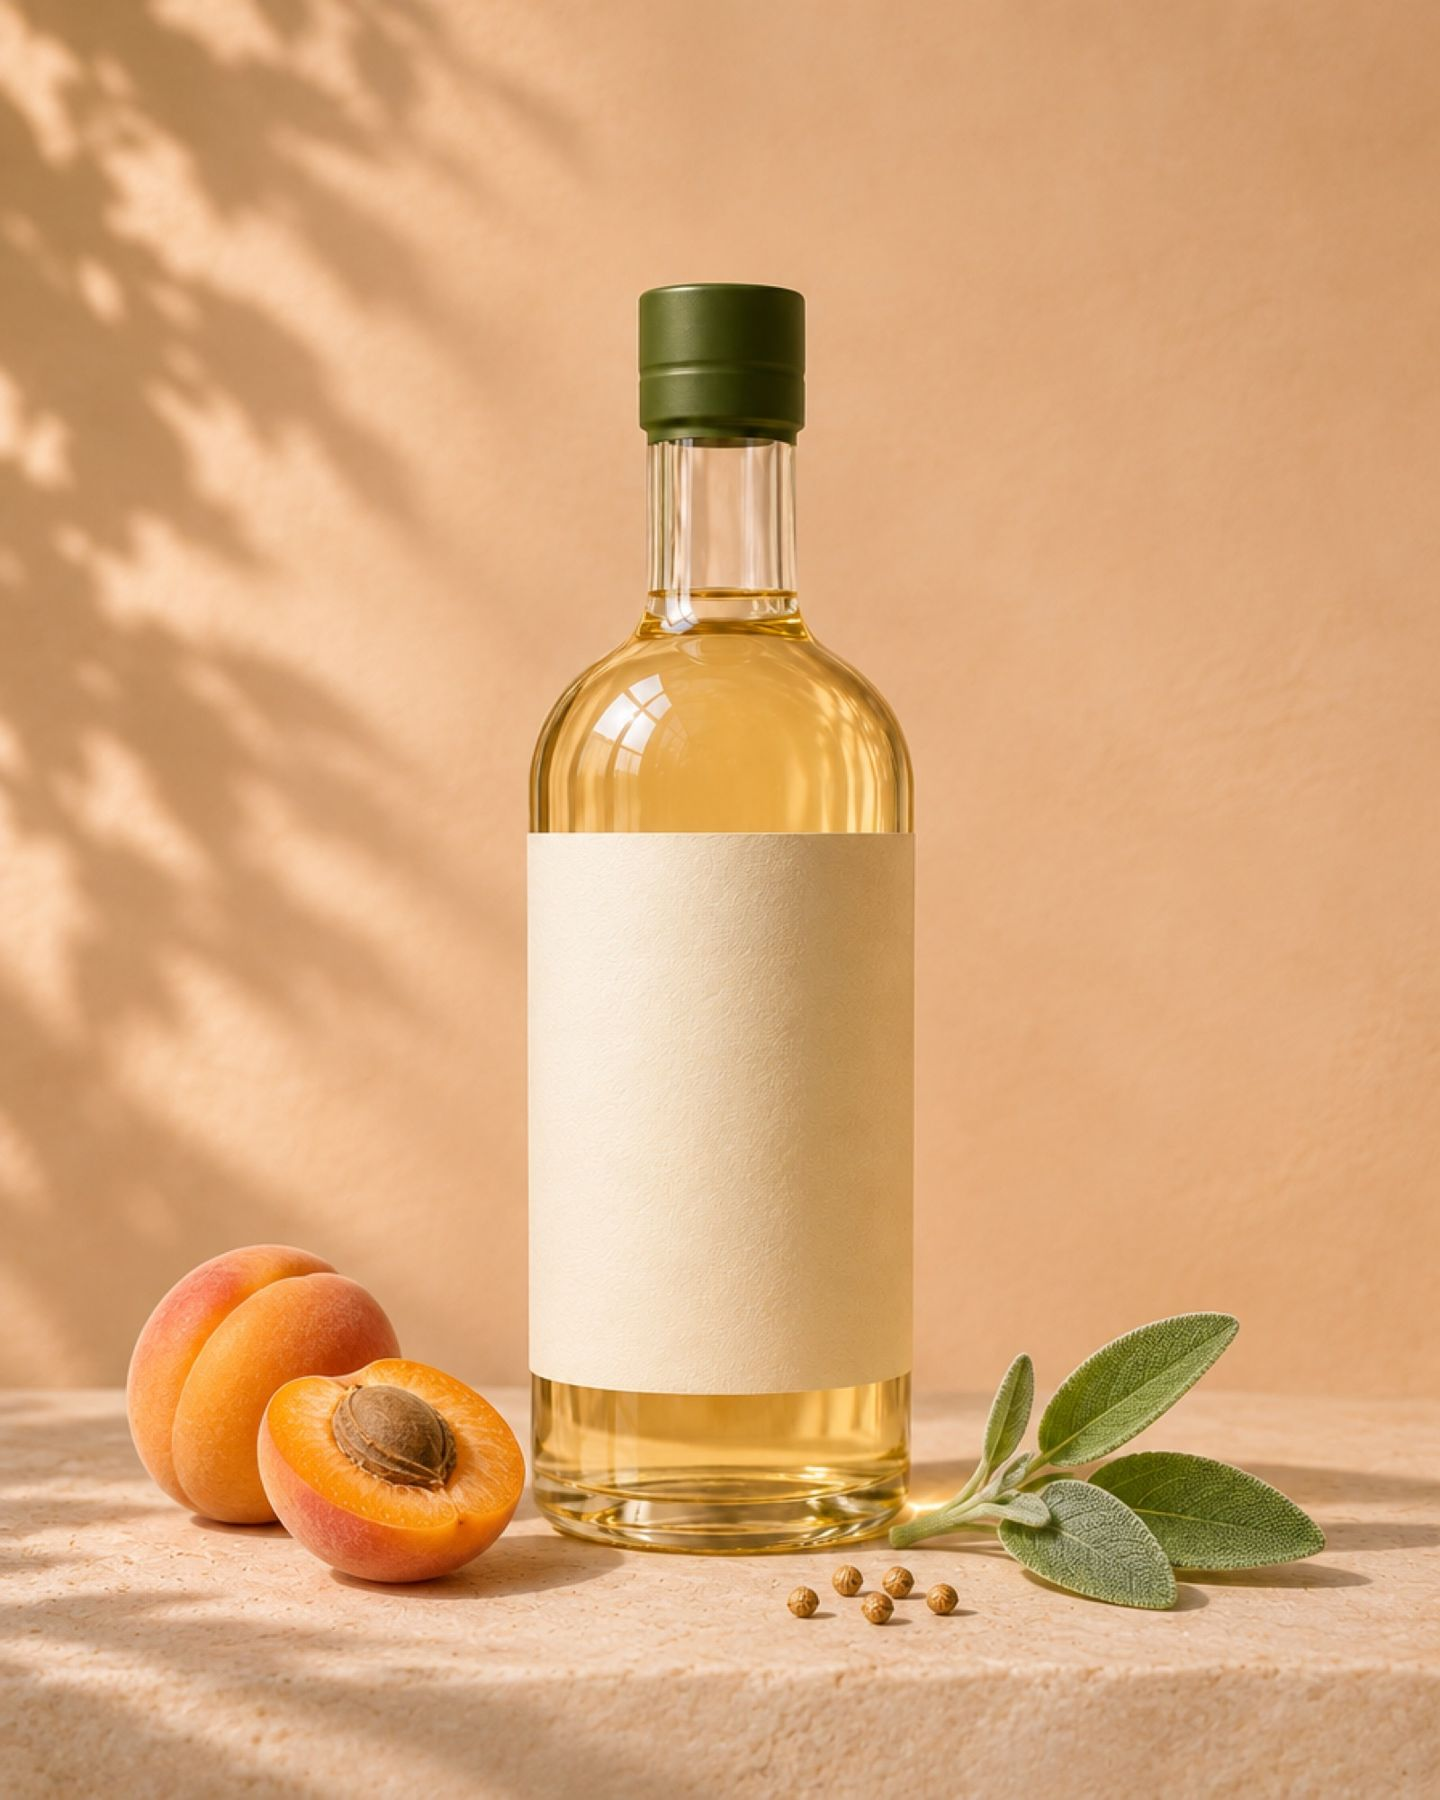
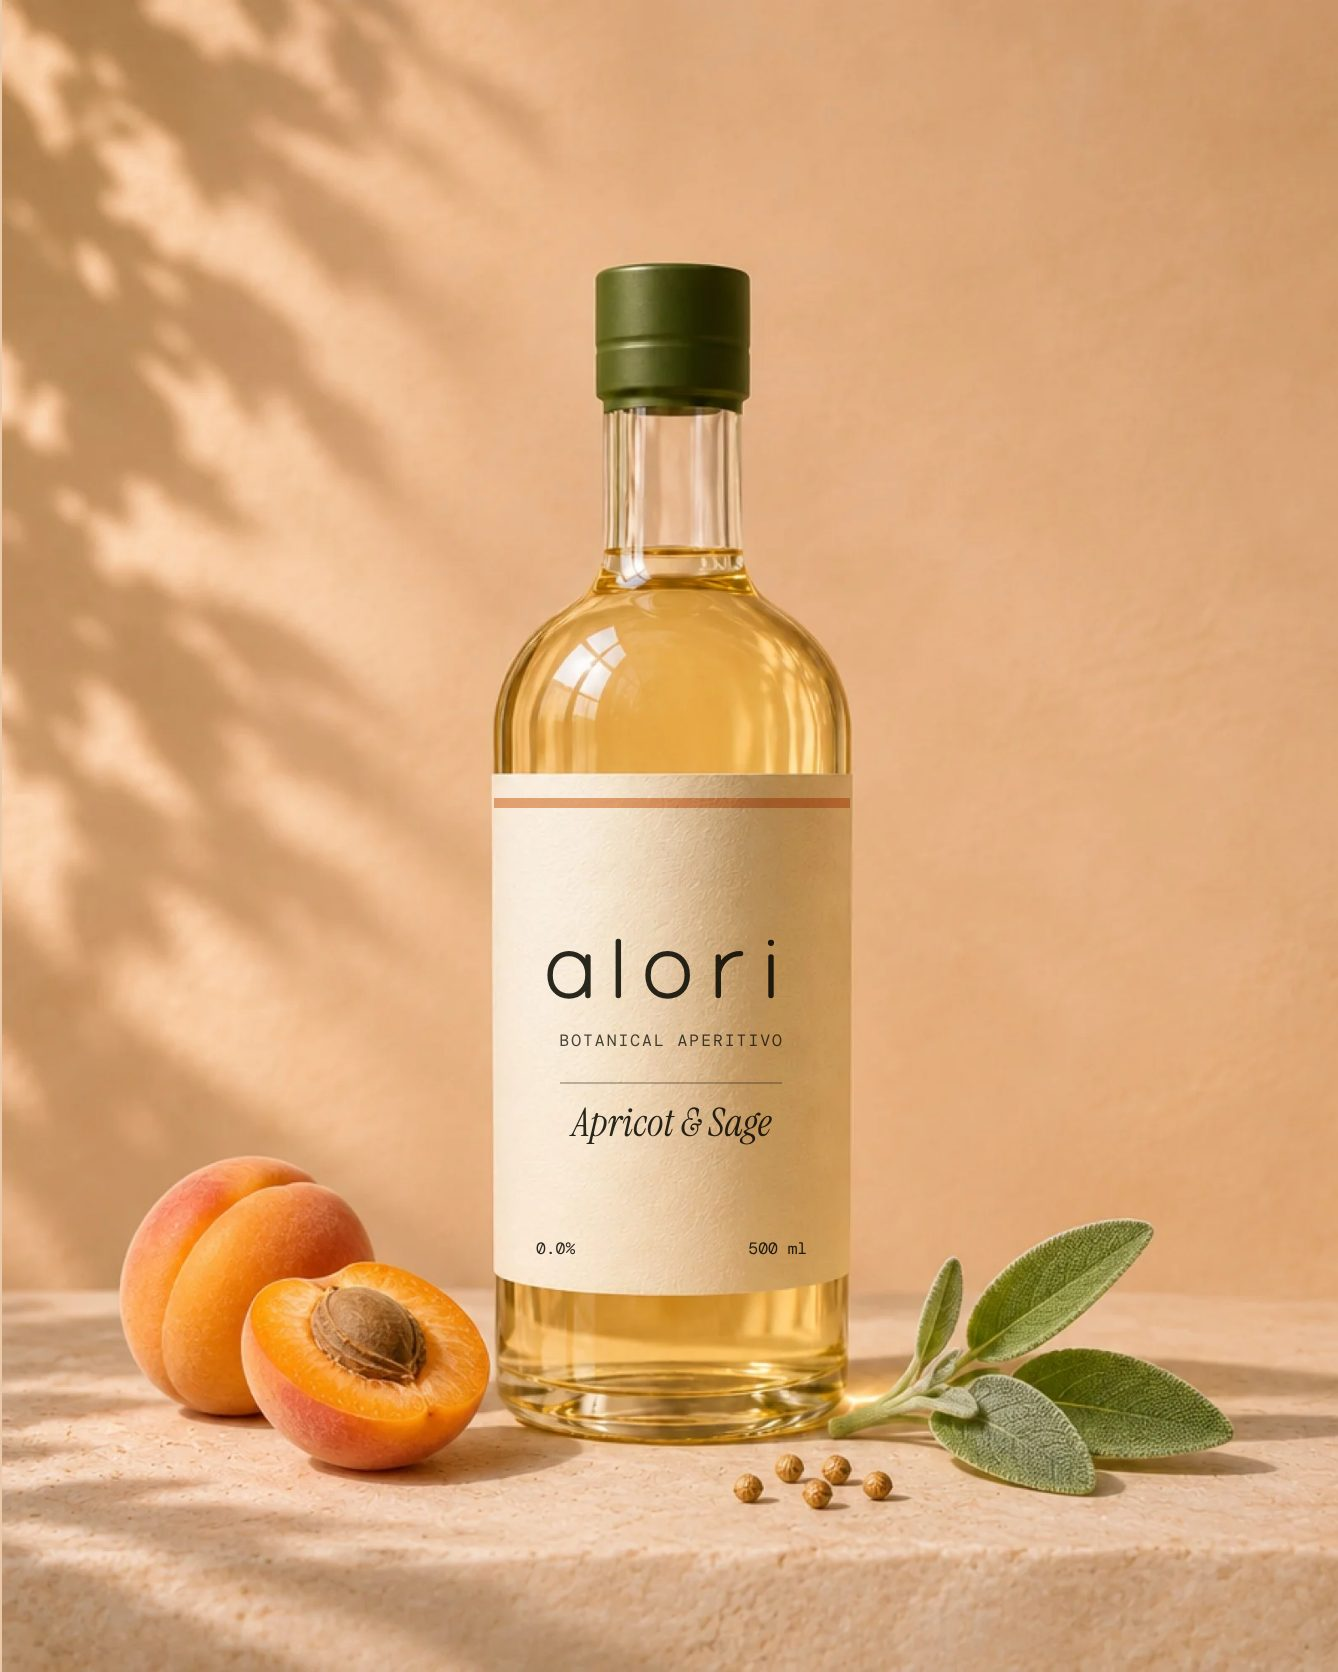
Portfolio: nuovo progetto Immobiliare Sociale; Alori con le foto reali di alori.uno
- Immobiliare Sociale (Pellicciotta Immobili): case study con schermate del sito, foto reali, palette e logo
- Alori: foto ed etichette prese dal sito online, schermata in italiano, link al sito
- Pagine progetto: pulsante 'Visita il sito' e segno del brand personalizzabile

Claude-Session: https://claude.ai/code/session_015UGP3VM9LHcDfCSazAjYhU

diff --git a/src/assets/oyra.css b/src/assets/oyra.css
@@ -570,3 +570,6 @@ fieldset.fld{border:0;margin:0;padding:0}
 @media (max-width:760px){.g-pal6{grid-template-columns:repeat(3,1fr)}.g-pal6 span{min-height:120px}}
 .brand-sys{position:relative;z-index:2}
 .case-note{max-width:640px;margin:clamp(32px,4vw,56px) 0 0;opacity:.7;text-transform:none;letter-spacing:.02em;line-height:1.5}
+.case-visit{margin-top:clamp(24px,3vw,40px);background:var(--p-ink);color:var(--p-bg)}
+.case-visit svg{width:11px}
+.case-visit:hover svg{transform:none}

diff --git a/src/data.py b/src/data.py
@@ -2,6 +2,23 @@
 STAR = '<svg viewBox="0 0 500 564" aria-hidden="true"><use href="#oyra-star"/></svg>'
 
 PROJECTS = [
+  dict(slug='immobiliare-sociale', name='Immobiliare Sociale', client='Pellicciotta Immobili', place='Milano', year='2026',
+       cats='web', tags=['Web','UX e contenuti','Motion'], cv='cv-photo',
+       cover='<img src="assets/img/immobiliare-sociale/home.jpg" alt="Home del sito Immobiliare Sociale" loading="lazy">',
+       colors=('#F6F1EA','#CF1259','#174452'),
+       palette=[('Teal','#2F7286'),('Teal profondo','#174452'),('Magenta','#CF1259'),('Carta','#F6F1EA'),('Inchiostro','#071519'),('Teal chiaro','#4FB3C8')],
+       fonts='Bricolage Grotesque · Instrument Serif · Manrope',
+       mark='<img src="assets/img/immobiliare-sociale/logo.png" alt="Logo Immobiliare Sociale" style="width:72%;max-width:none;height:auto;position:static">',
+       mark_cap='Il logo · by Pellicciotta Immobili',
+       url='https://immobiliaresociale.it/', url_label='immobiliaresociale.it',
+       summary="Il sito di un'agenzia immobiliare milanese che dona in beneficenza metà della sua provvigione netta. Un'idea etica, raccontata in modo chiaro e credibile.",
+       challenge="Pellicciotta Immobili, agenzia di famiglia attiva a Milano da oltre 35 anni, lanciava Immobiliare Sociale: per ogni casa venduta o affittata, il 50% della provvigione netta va a un ente scelto da chi vende. Un'idea forte, ma facile da fraintendere: andava spiegata in modo semplice, senza retorica, e resa credibile.",
+       idea="Abbiamo messo al centro il meccanismo e le persone. Tre passaggi chiari, i vantaggi concreti (provvigione più bassa, risparmio fiscale, beneficenza a costo zero), gli enti sostenuti e le donazioni già fatte, con importi e foto: la prima ha portato 3.200 € al Piccolo Cottolengo Don Orione. Le storie di Fabio e Giulia danno un volto all'agenzia; teal e magenta tengono insieme fiducia e calore.",
+       deliv=['Architettura dei contenuti e testi','Design del sito, tema chiaro e scuro','Sviluppo e animazioni','Pagine enti e donazioni','Interviste e blog','SEO di base'],
+       photos=[('home','w12','Home · immobiliaresociale.it'),('mobile','w5','Su smartphone'),('enti','w7','Gli enti sostenuti'),
+               ('come','w7','Come funziona'),('assegno-gruppo','w5','La prima donazione: 3.200 €'),('chi','w12','La storia dell\'agenzia')],
+       quote="Vendi casa e fai una buona azione.",
+       mock='card'),
   dict(slug='alori', name='Alori', client='Progetto di brand indipendente', place='Italia', year='2026',
        cats='brand web', tags=['Branding','Web','Art direction'], cv='cv-photo',
        cover='<img src="assets/img/alori/hero-wide.jpg" alt="Bottiglia di Alori su un tavolo all\'aperto" loading="lazy">',
@@ -12,7 +29,10 @@ PROJECTS = [
        challenge="Gli analcolici per l'aperitivo sembrano spesso un ripiego: bevande pronte, dolci, con un'immagine da succo di frutta. Volevamo immaginare una base da miscelare che avesse il carattere di un bitter e il tono di un prodotto adulto.",
        idea="Alori si versa, si allunga con soda e si condivide: 50 ml e 100 ml di soda, con una scorza di pompelmo. Il segno è un'orbita aperta con un punto di luce, come un cerchio di persone attorno a un tavolo sempre pronto ad accogliere qualcuno in più. Colori presi dalla carta delle etichette, dalla pietra e dagli agrumi.",
        deliv=['Nome, posizionamento e tono di voce','Segno "orbita" e logotipo','Palette, caratteri e brand book','Gamma di cinque profili ed etichette','Art direction e visualizzazioni di concept','Sito bilingue IT / EN con animazioni'],
-       photos=[('hero-wide','w12','Il momento'),('bottle-citrus','w5','Citrus, il profilo firma'),('pour','w7','Il rito: 50 ml'),('botanicals','w7','Le botaniche'),('soda-pour','w5','100 ml di soda'),('bottle-apricot','w4','Apricot & Sage'),('bottle-fig','w4','Green Fig'),('peel-macro','w4','Scorza di pompelmo'),('table','w12','Prima di cena, con chi vuoi')],
+       url='https://alori.uno/', url_label='alori.uno',
+       photos=[('site-home','w12','Il sito · alori.uno'),('bottle-citrus','w4','Citrus · profilo firma'),('bottle-apricot','w4','Apricot & Sage'),('bottle-fig','w4','Green Fig'),
+               ('pour','w5','Il rito: 50 ml'),('botanicals','w7','Le botaniche'),('table','w12','Prima di cena, con chi vuoi'),
+               ('bottle-quince','w4','Quince & Cardamom · in sviluppo'),('bottle-cherry','w4','Sour Cherry · in sviluppo'),('peel-macro','w4','Scorza di pompelmo')],
        quote="Apri il momento.",
        note="Prodotto, bottiglia e fotografie sono visualizzazioni di concept: Alori è un progetto di marca indipendente di OYRA, il prodotto è in sviluppo.",
        mock='card'),

diff --git a/build.py b/build.py
@@ -196,7 +196,7 @@ def photo_gallery(p):
   <section class="sec wrap brand-sys" data-header="dark" style="background:{bg};color:{ink}">
     <div class="sec-top"><h2 class="sec-title split" style="font-size:clamp(40px,6vw,100px)">Il <span class="serif">sistema</span></h2><span class="mono" style="opacity:.7">Dal brand book</span></div>
     <div class="gal" data-reveal data-stagger>
-      <div class="g w5 g-mark" style="background:{ink};color:{bg}">{ORBIT}<span class="cap">Il segno · un cerchio aperto, un punto di luce</span></div>
+      <div class="g w5 g-mark" style="background:{ink};color:{bg}">{p.get('mark', ORBIT)}<span class="cap">{p.get('mark_cap', 'Il segno · un cerchio aperto, un punto di luce')}</span></div>
       <div class="g w7 g-quote" style="background:{ac};color:{ink}"><p>{p['quote']}</p><span class="cap">{p['fonts']}</span></div>
       <div class="g w12 g-pal6">{pal}</div>
     </div>
@@ -228,6 +228,7 @@ def project_page(i, p):
       <div><span class="mono">Anno</span><b>{p['year']}</b></div>
       <div><span class="mono">Servizi</span><b>{', '.join(p['tags'])}</b></div>
     </div>
+    {f'<a class="btn magnet case-visit" href="{p["url"]}" target="_blank" rel="noopener">Visita {p.get("url_label", "il sito")} {ARROW}</a>' if p.get('url') else ''}
   </section>
 
   <section class="sec bg-crema wrap" data-header="dark">
